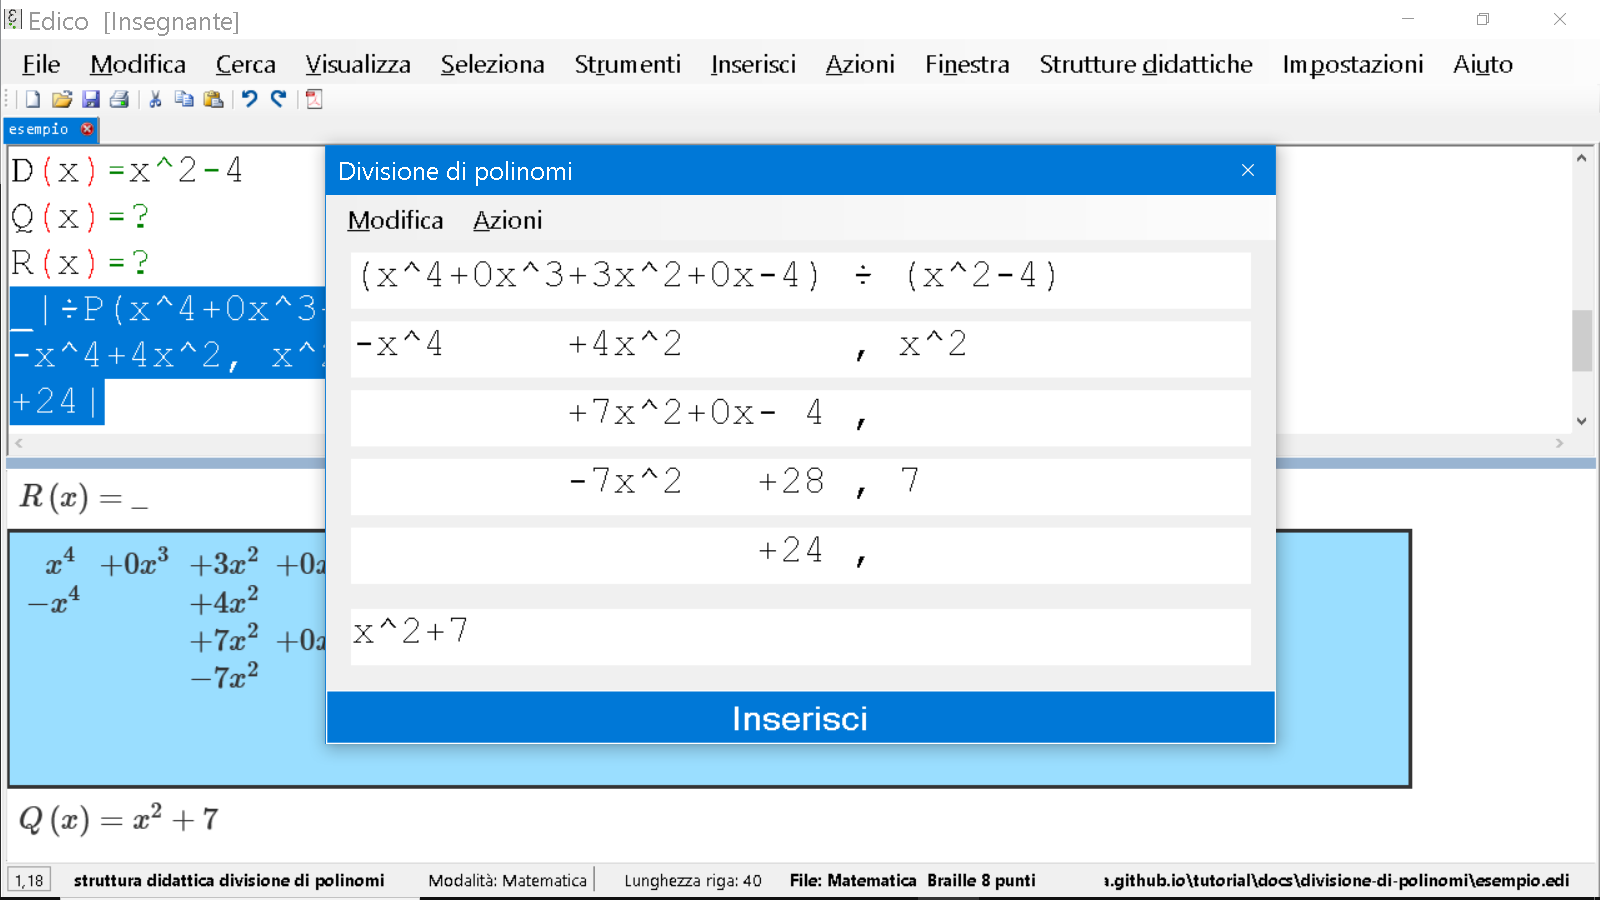
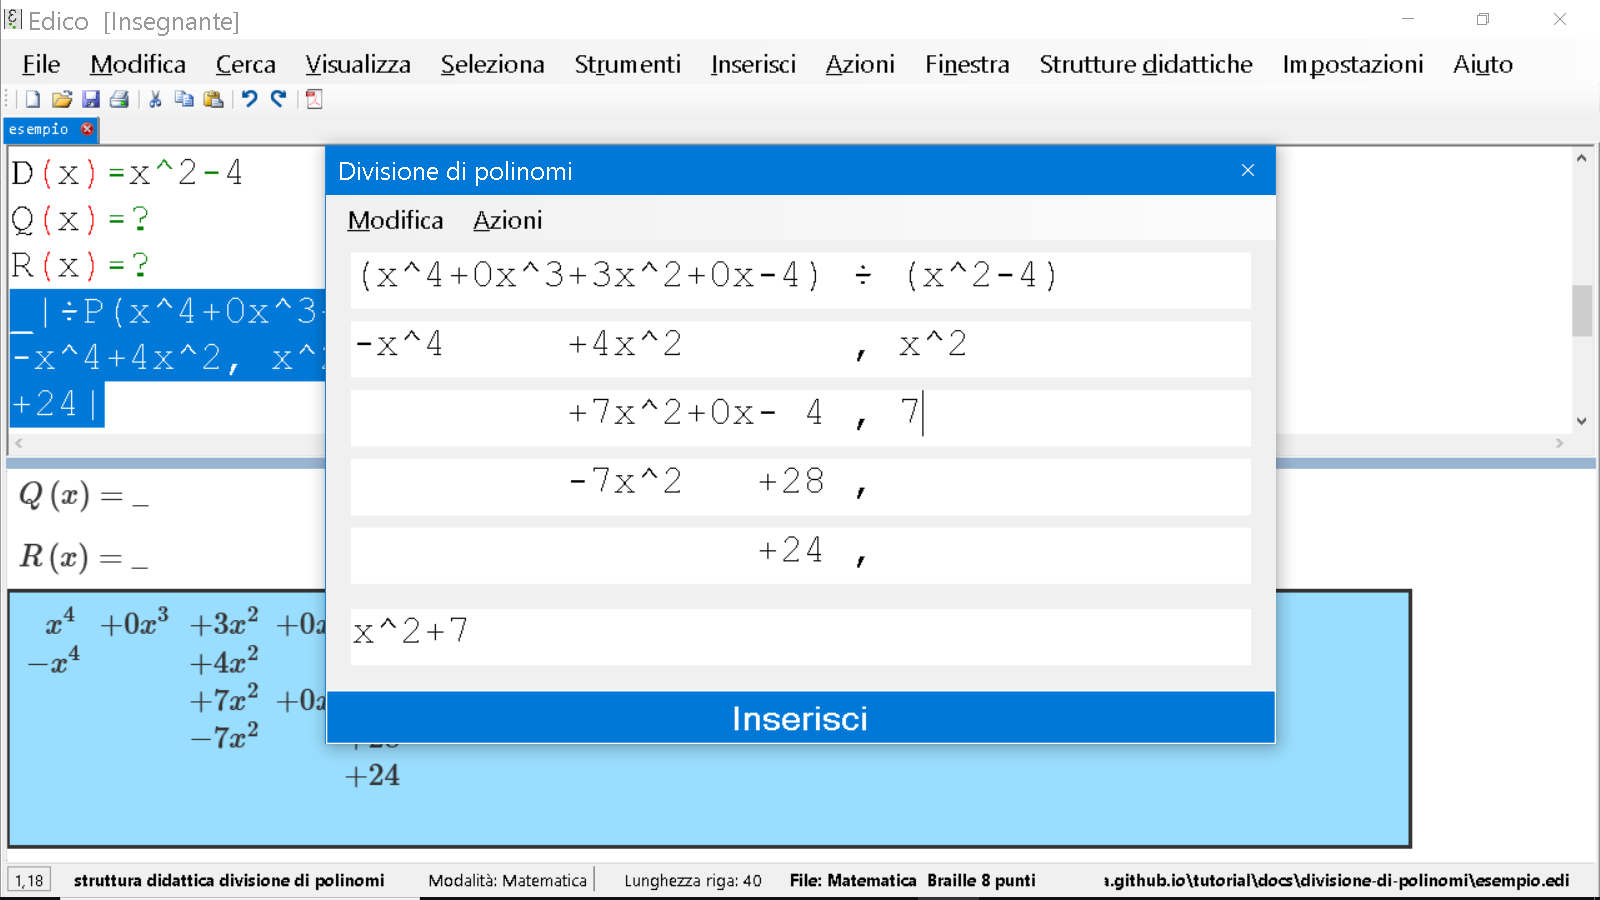
---

diff --git a/tutorial/docs/divisione-di-polinomi/index.md b/tutorial/docs/divisione-di-polinomi/index.md
@@ -64,7 +64,7 @@ Moltiplichiamo $x^2$ per $D(x)$ e sottraiamo il risultato da $P(x)$ (cambiamo di
 Lo riportiamo nella seconda riga, prima colonna (resto):
 ![Schermata che mostra l'operazione](20240118123024.png)
 
-Aggiungiamo una riga, dal menu *Modifica*, *Nuova riga* o premendo CTRL+N.
+Aggiungiamo una riga, dal menu *Modifica*, *Aggiungi riga* o premendo CTRL+N.
 ![Schermata che mostra l'operazione](20240118123104.png)
 Calcoliamo il resto facendo le somme:
 ![Schermata che mostra l'operazione](20240118122640.png)
@@ -72,7 +72,7 @@ Calcoliamo il resto facendo le somme:
 
 ### 4. Ripeti il processo
 
-Aggiungiamo una riga, dal menu *Modifica*, *Nuova riga* o premendo CTRL+N.
+Aggiungiamo una riga, dal menu *Modifica*, *Aggiungi riga* o premendo CTRL+N.
 Continua il processo finché il grado del resto è inferiore al grado di $D(x)$. Ricordiamoci sempre di andare ad aggiungere i vari membri del quoziente in seconda colonna.
 
 ![Schermata che mostra l'operazione](20240118123713.png)
